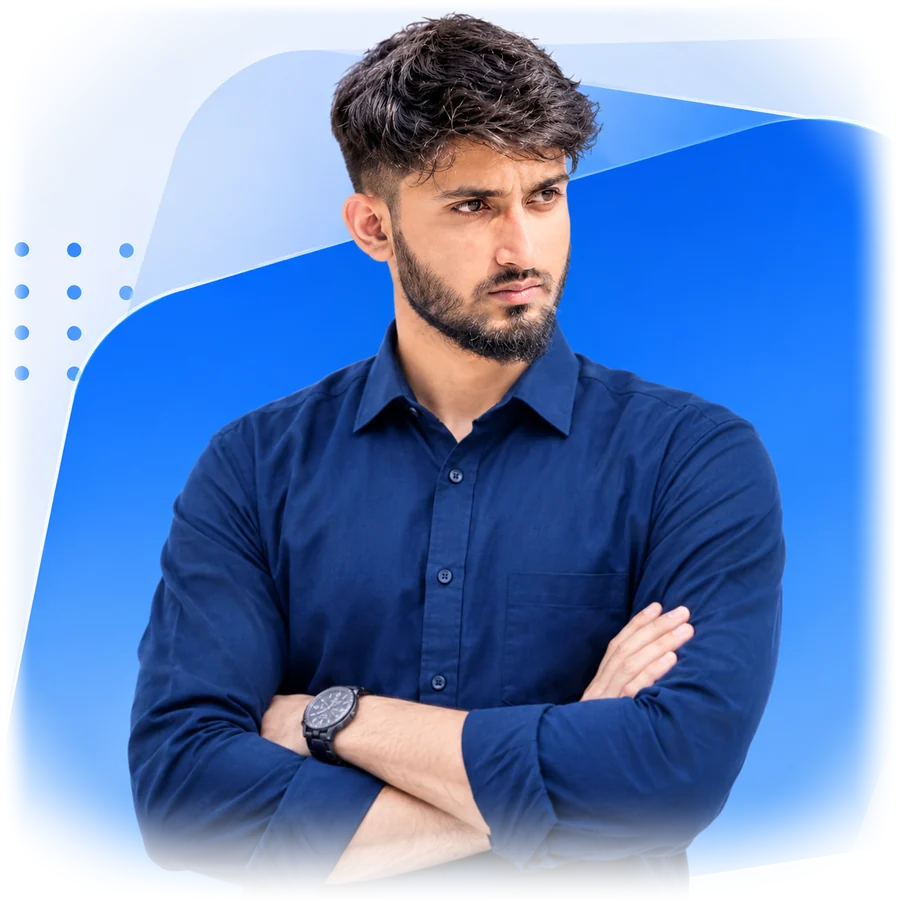
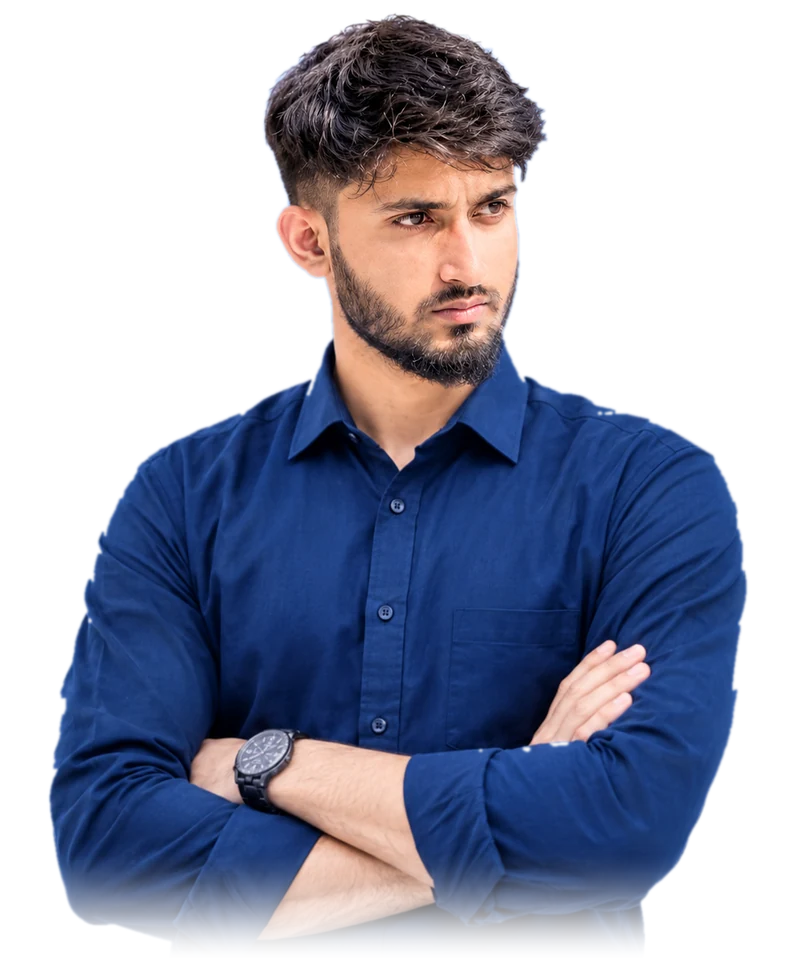
#3

diff --git a/src/pages/Home.jsx b/src/pages/Home.jsx
@@ -107,6 +107,7 @@ const SOCIAL = [
 ];
 
 const keyframes = `
+  *, *::before, *::after { box-sizing: border-box; }
   body { margin: 0; background: ${BG}; }
   @keyframes rise { from { opacity: 0; transform: translateY(28px); } to { opacity: 1; transform: none; } }
   @keyframes letterUp { from { opacity: 0; transform: translateY(70%) rotate(6deg); } to { opacity: 1; transform: none; } }
@@ -347,10 +348,9 @@ const PANELS = {
             height: 150,
             borderRadius: "24px",
             border: LINE,
-            backgroundColor: "#0d1220",
-            backgroundImage: `url(${profileImg})`,
-            backgroundSize: "220%",
-            backgroundPosition: "52% 0%",
+            backgroundImage: `url(${profileImg}), linear-gradient(135deg, #1d4ed8 0%, #0d1220 75%)`,
+            backgroundSize: "220%, cover",
+            backgroundPosition: "53% 8%, center",
             backgroundRepeat: "no-repeat",
           }}
         />
@@ -609,7 +609,7 @@ const Home = () => {
           pb: 6,
         }}
       >
-        <Box>
+        <Box sx={{ textAlign: { xs: "center", md: "left" } }}>
           <Rise i={0}>
             <Box sx={{ display: "inline-flex", alignItems: "center", gap: 1, px: 2, py: 0.8, borderRadius: "100px", border: LINE, background: GLASS, fontSize: "12px", color: MUTED, mb: 2.5 }}>
               <Box sx={{ width: 8, height: 8, borderRadius: "50%", background: CYAN, animation: "pulse 1.8s infinite" }} />
@@ -622,7 +622,7 @@ const Home = () => {
             component="h1"
             aria-label="Abu Bakkar"
             sx={{
-              fontSize: "clamp(52px, 9vw, 112px)",
+              fontSize: "clamp(51px, 7vw, 112px)",
               fontWeight: 800,
               lineHeight: 1.02,
               letterSpacing: "-3px",
@@ -655,13 +655,13 @@ const Home = () => {
           </Rise>
 
           <Rise i={7}>
-            <Typography sx={{ color: MUTED, lineHeight: 1.9, maxWidth: 500, mb: 3.5 }}>
+            <Typography sx={{ color: MUTED, lineHeight: 1.9, maxWidth: 500, mx: { xs: "auto", md: 0 }, mb: 3.5 }}>
               I build modern, responsive and user-friendly web applications using
               React, MUI and more.
             </Typography>
           </Rise>
 
-          <Rise i={8} sx={{ display: "flex", flexWrap: "wrap", gap: 2, mb: 4 }}>
+          <Rise i={8} sx={{ display: "flex", flexWrap: "wrap", gap: 2, mb: 4, justifyContent: { xs: "center", md: "flex-start" } }}>
             <Button
               onClick={() => open("projects")}
               endIcon={<NorthEastIcon />}
@@ -679,7 +679,7 @@ const Home = () => {
             </Button>
           </Rise>
 
-          <Rise i={9} sx={{ display: "flex", gap: 1.5 }}>
+          <Rise i={9} sx={{ display: "flex", gap: 1.5, justifyContent: { xs: "center", md: "flex-start" } }}>
             {SOCIAL.map((s) => (
               <IconButton
                 key={s.name}
@@ -711,7 +711,7 @@ const Home = () => {
                 borderRadius: "50%",
                 background: GRADIENT,
                 filter: "blur(60px)",
-                opacity: 0.45,
+                opacity: 0.6,
                 animation: "spin 12s linear infinite",
               },
             }}
